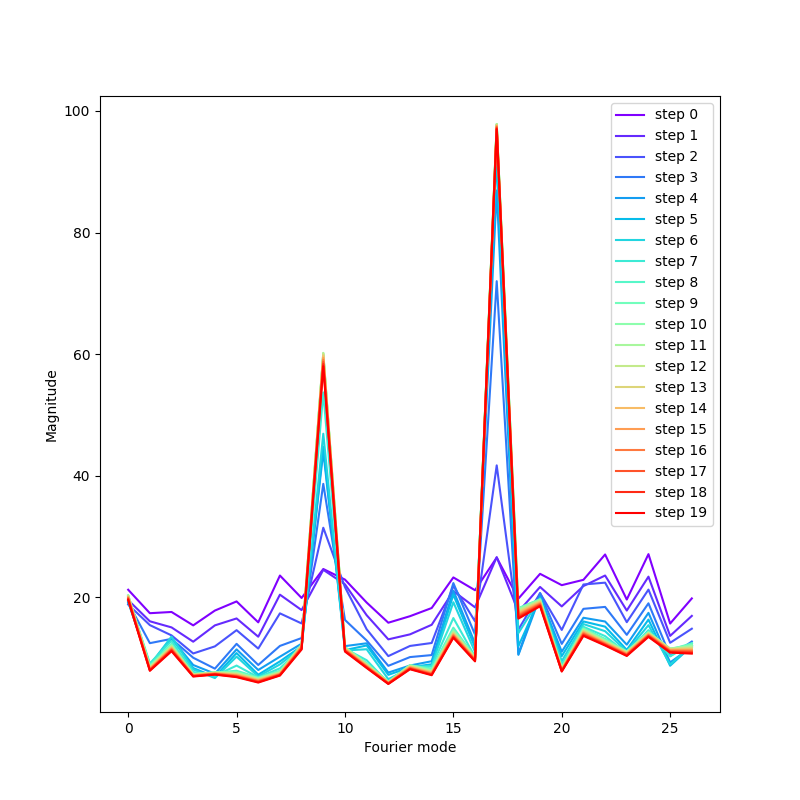
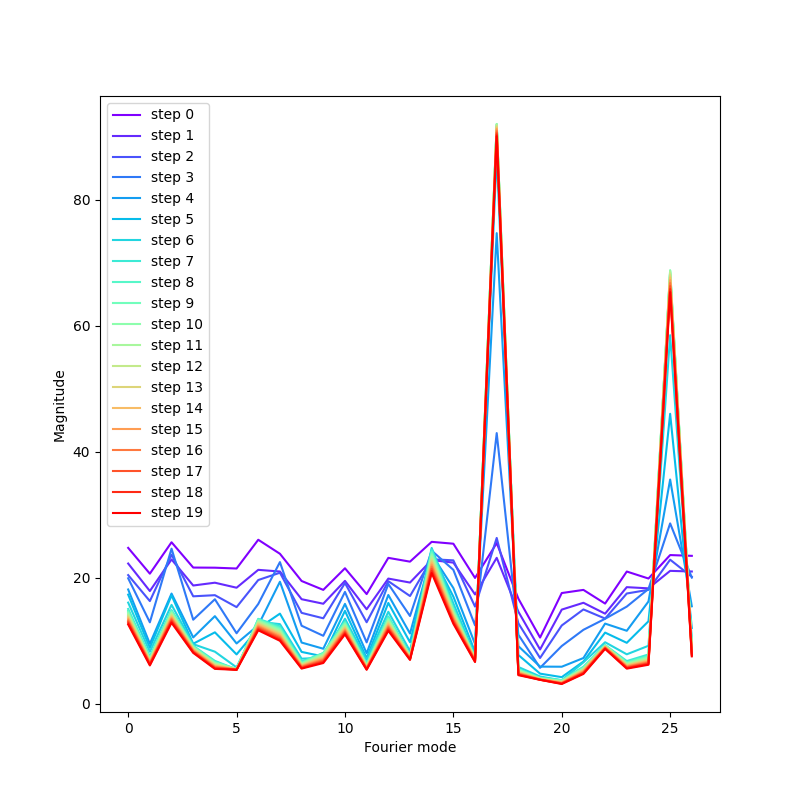
Pizza vs Clock exp

diff --git a/modular_addition/model_viz.py b/modular_addition/model_viz.py
@@ -5,6 +5,8 @@ import math
 from matplotlib.colors import Normalize
 from matplotlib.cm import ScalarMappable
 from helpers import get_dft_matrix
+import torch as t
+from dynamics import get_magnitude_modes
 
 def get_weights_modes(weights, P):
     cos, sin = get_dft_matrix(P)
@@ -14,23 +16,21 @@ def get_weights_modes(weights, P):
 
 def viz_weights_modes(weights, P, fname, title="Modes"):
   c1, s1 = get_weights_modes(weights, P)
+  mags = get_magnitude_modes(weights, P)
   n_plots = (P // 2) + 1
   num_cols = int(math.ceil(math.sqrt(n_plots)))
   num_rows = int(math.ceil(n_plots / num_cols))
   colormap = plt.cm.rainbow
   plt.figure(figsize=(num_cols * 2, num_rows * 2))
   colors = [colormap(i) for i in np.linspace(0, 1, P)]
-  norms = []
   for mode in range(n_plots):
     cos = c1[mode]
     sin = s1[mode]
     plt.subplot(num_rows, num_cols, mode + 1)
     color_idx = [(i * mode) % P for i in range(P)]
     color_for_mode = [colors[idx] for idx in color_idx]
-    avg_norm = sum([np.sqrt(cos[i]**2 + sin[i]**2) for i in range(len(cos))])
-    norms.append(avg_norm)
     plt.scatter(cos.numpy(), sin.numpy(), c=color_for_mode)
-    plt.title(f"Mode {mode} {avg_norm:.4f}", fontsize=8)
+    plt.title(f"Mode {mode} {mags[mode]:.4f}", fontsize=8)
   plt.suptitle(title)
   norm = Normalize(vmin=0, vmax=P)
   sm = ScalarMappable(cmap=colormap, norm=norm)
@@ -67,5 +67,40 @@ def plot_magnitudes(magnitude_history, p, fname):
     plt.xlabel("Fourier mode")
     plt.ylabel("Magnitude")
     plt.legend()
+    plt.savefig(fname)
+    plt.close()
+
+def plot_ft_input_output_activations(saved_activations, a, P, fname):
+    # dft of y_pre_unembed
+    activations = [(act[0][1], act[1]) for act in saved_activations.items() if act[0][0] == a] # b, x
+    # sort by b 
+    activations.sort(key=lambda x: x[0])
+    assert len(activations) == P
+    # stack over b
+    activations = t.stack([act[1] for act in activations]) # p x embed_dim
+    mags = get_magnitude_modes(activations, P)
+    cos, sin = get_dft_matrix(P)
+    c1 = cos @ (activations @ activations.T)
+    s1 = sin @ (activations @ activations.T)
+    n_plots = (P // 2) + 1
+    num_cols = int(math.ceil(math.sqrt(n_plots)))
+    num_rows = int(math.ceil(n_plots / num_cols))
+    colormap = plt.cm.rainbow
+    plt.figure(figsize=(num_cols * 2, num_rows * 2))
+    colors = [colormap(i) for i in np.linspace(0, 1, P)]
+    for mode in range(n_plots):
+        cos = c1[mode]
+        sin = s1[mode]
+        plt.subplot(num_rows, num_cols, mode + 1)
+        color_idx = [(i * mode) % P for i in range(P)]
+        color_for_mode = [colors[idx] for idx in color_idx]
+        plt.scatter(cos.numpy(), sin.numpy(), c=color_for_mode)
+        plt.title(f"Mode {mode} {mags[mode]:.4f}", fontsize=8)
+    plt.suptitle("Output activations FT")
+    norm = Normalize(vmin=0, vmax=P)
+    sm = ScalarMappable(cmap=colormap, norm=norm)
+    cbar_ax = plt.gcf().add_axes([0.92, 0.15, 0.01, 0.7])
+    plt.colorbar(sm, cax=cbar_ax)
+    plt.tight_layout(rect=[0, 0, 0.9, 1])
     plt.savefig(fname)
     plt.close()

diff --git a/modular_addition/train.py b/modular_addition/train.py
@@ -6,33 +6,47 @@ from dataset import make_dataset, train_test_split
 from dynamics import ablate_other_modes_fourier_basis, ablate_other_modes_embed_basis, get_magnitude_modes
 from model_viz import viz_weights_modes, plot_mode_ablations, plot_magnitudes
 from movie import run_movie_cmd
-from dataclasses import dataclass
+from dataclasses import dataclass, asdict
+import json
 from helpers import eval_model
 
 @dataclass
 class ExperimentParams:
-  p = 53
-  train_frac = 0.8
-  hidden_size = 32
-  lr = 0.01
+  p: int = 53
+  train_frac: float = 0.8
+  hidden_size: int = 32
+  lr: float = 0.01
   device = t.device('cuda' if t.cuda.is_available() else 'cpu')
-  batch_size = 256
-  embed_dim = 8
-  tie_unembed = True
-  weight_decay = 0.0002
-  movie=True
-  magnitude=True
-  ablation_fourier=True
-  ablation_embed=False
-  n_batches = 1000
-  track_times = 20
-  print_times = 10
-  frame_times = 100
-  freeze_embedding = False
-  scale_linear_1_factor = 2
+  batch_size: int = 256
+  embed_dim: int = 8
+  tie_unembed: bool = True
+  weight_decay:float = 0.0002
+  movie: bool=True
+  magnitude: bool=True
+  ablation_fourier: bool=True
+  ablation_embed: bool=False
+  n_batches: int = 1000
+  track_times: int = 20
+  print_times: int = 10
+  frame_times: int = 100
+  freeze_middle: bool = False
+  scale_linear_1_factor: int = 2
+  save_activations: bool = False
+  linear_1_tied: bool = False
+
+  def save_to_file(self, fname):
+    class_dict = asdict(self)
+    with open(fname, "w") as f:
+      json.dump(class_dict, f)
+
+  @staticmethod
+  def load_from_file(fname):
+    with open(fname, "r") as f:
+      class_dict = json.load(f)
+    return ExperimentParams(**class_dict)
 
   def get_suffix(self):
-    return f"P{self.p}_frac{self.train_frac}_hid{self.hidden_size}_emb{self.embed_dim}_tie{self.tie_unembed}_freeze{self.freeze_embedding}"
+    return f"P{self.p}_frac{self.train_frac}_hid{self.hidden_size}_emb{self.embed_dim}_tie{self.tie_unembed}_freeze{self.freeze_middle}"
 
 def test(model, dataset, device):
   n_correct = 0
@@ -59,7 +73,7 @@ def get_loss_only_modes(model, modes, test_dataset, params):
 def train(model, train_dataset, test_dataset, params):
   model = model.to(params.device)
 
-  if params.freeze_embedding:
+  if params.freeze_middle:
     optimizer = t.optim.Adam(list(model.embedding.parameters()) + list(model.linear2.parameters()), weight_decay=params.weight_decay, lr=params.lr)
   else:
     optimizer = t.optim.Adam(model.parameters(), weight_decay=params.weight_decay, lr=params.lr)
@@ -114,7 +128,8 @@ def train(model, train_dataset, test_dataset, params):
   return model, mode_loss_history, magnitude_history
 
 if __name__ == "__main__":
-    params = ExperimentParams()
+    params = ExperimentParams(linear_1_tied=True)
+    params.save_to_file(f"models/params_{params.get_suffix()}.json")
     model = MLP(params)
     dataset = make_dataset(params.p)
     train_data, test_data = train_test_split(dataset, params.train_frac)

diff --git a/modular_addition/model.py b/modular_addition/model.py
@@ -16,14 +16,27 @@ class MLP(t.nn.Module):
         self.linear1r.weight.data /= params.scale_linear_1_factor
         self.linear1l.weight.data /= params.scale_linear_1_factor
 
-    def forward(self, x1, x2):
-        x1 = self.embedding(x1)
-        x2 = self.embedding(x2)
-        x1 = self.linear1l(x1)
-        x2 = self.linear1r(x2)
+        self.saved_activations = {}
+        self.params = params
+
+    def forward(self, a, b):
+        x1 = self.embedding(a)
+        x2 = self.embedding(b)
+        if self.params.linear_1_tied:
+          x1 = self.linear1r(x1)
+          x2 = self.linear1r(x2)
+        else:
+          x1 = self.linear1l(x1)
+          x2 = self.linear1r(x2)
         x = x1 + x2
         x = self.gelu(x)
         x = self.linear2(x)
+
+        if self.params.save_activations:
+          if len(a.shape) == 0:
+            a = a.unsqueeze(0)
+          self.saved_activations[(a[0], b[0])] = x[0].cpu().clone().detach() # (batch_size, embed_dim)
+
         if self.tie_unembed:
           x = x @ self.embedding.weight.T
         return x

diff --git a/modular_addition/pizza_vs_clock_exp.py b/modular_addition/pizza_vs_clock_exp.py
@@ -1,0 +1,19 @@
+import torch as t
+from train import ExperimentParams
+from model import MLP
+from model_viz import plot_ft_input_output_activations
+
+def experiment(params, a, model_fname):
+    params = ExperimentParams()
+    params.save_activations = True
+    model = MLP(params)
+    model.load_state_dict(t.load(model_fname))
+    for i in range(params.p):
+        model(t.tensor([a]), t.tensor([i]))
+    plot_ft_input_output_activations(model.saved_activations, a, params.p, f"plots/ft_input_output_activations_{params.get_suffix()}_a{a}.png")
+
+if __name__ == "__main__":
+    params = ExperimentParams.load_from_file("models/params_P53_frac0.8_hid32_emb8_tieTrue_freezeFalse.json")
+    experiment(params, 17, f"models/model_{params.get_suffix()}.pt")
+
+

diff --git a/modular_addition/lambda.py b/modular_addition/lambda.py
@@ -70,9 +70,9 @@ if __name__ == "__main__":
     # generate and test models with different numbers of fourier modes 
     # vary p vs lambda
     # compare to random commutative operation
-    params = ExperimentParams()
+    params = ExperimentParams.load_from_file("models/params_P53_frac0.8_hid32_emb8_tieTrue_freezeFalse.json")
     model = MLP(params)
-    model.load_state_dict(t.load("models/model_P53_frac0.8_hid32_emb8_tieTrue_freezeFalse.pt"))
+    model.load_state_dict(t.load(f"models/model_{params.get_suffix()}.pt"))
     dataset = make_dataset(params.p)
     gamma = 0.1
     epsilon = 0.001
